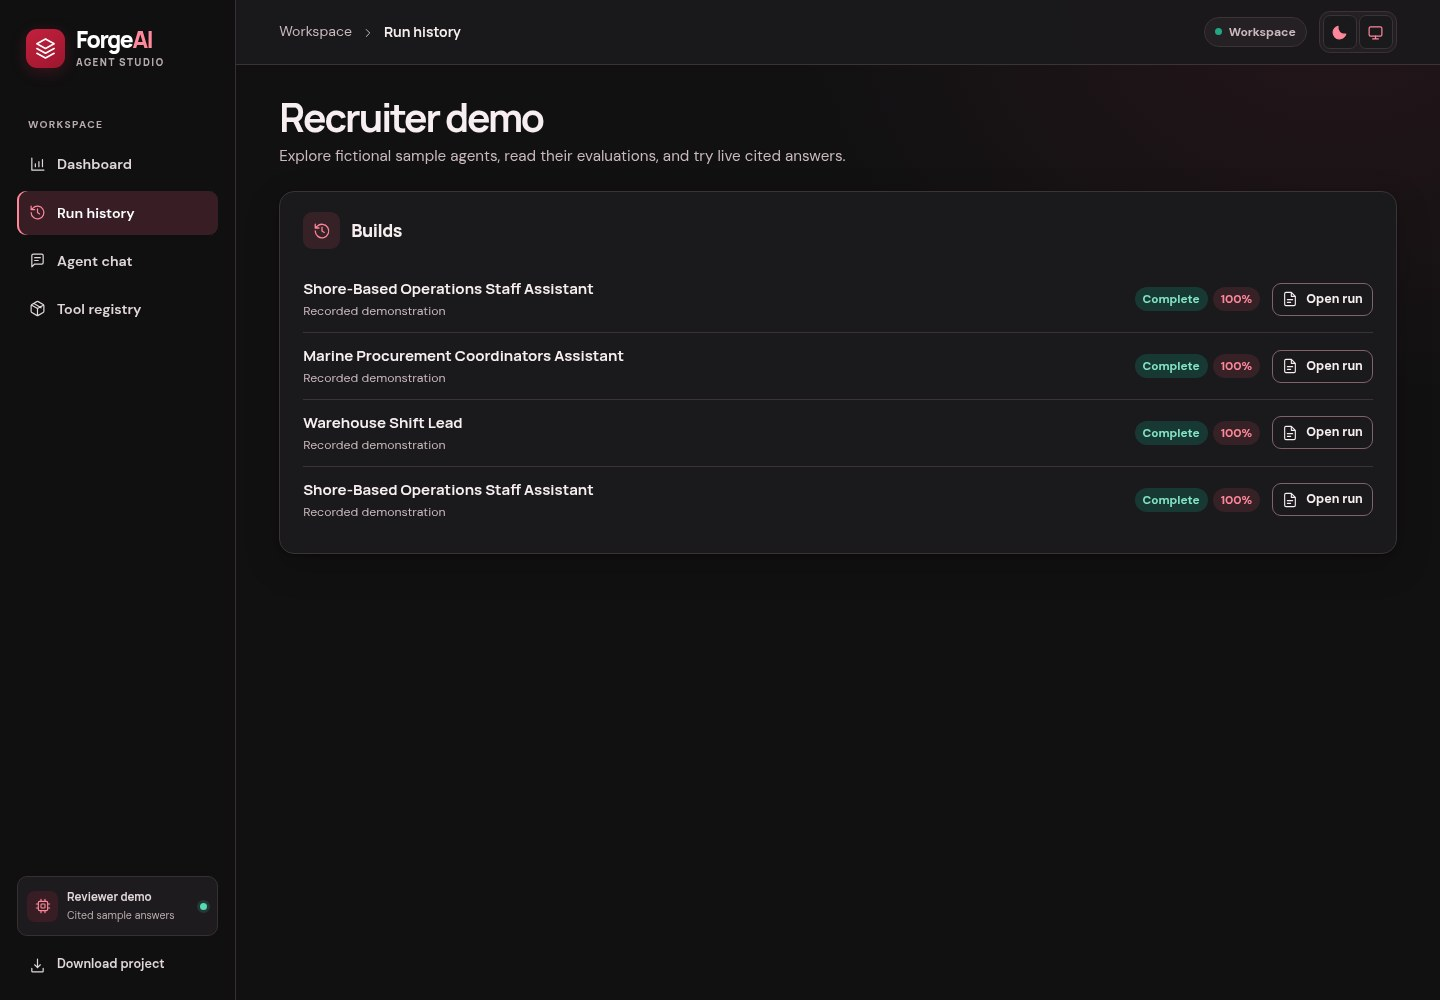
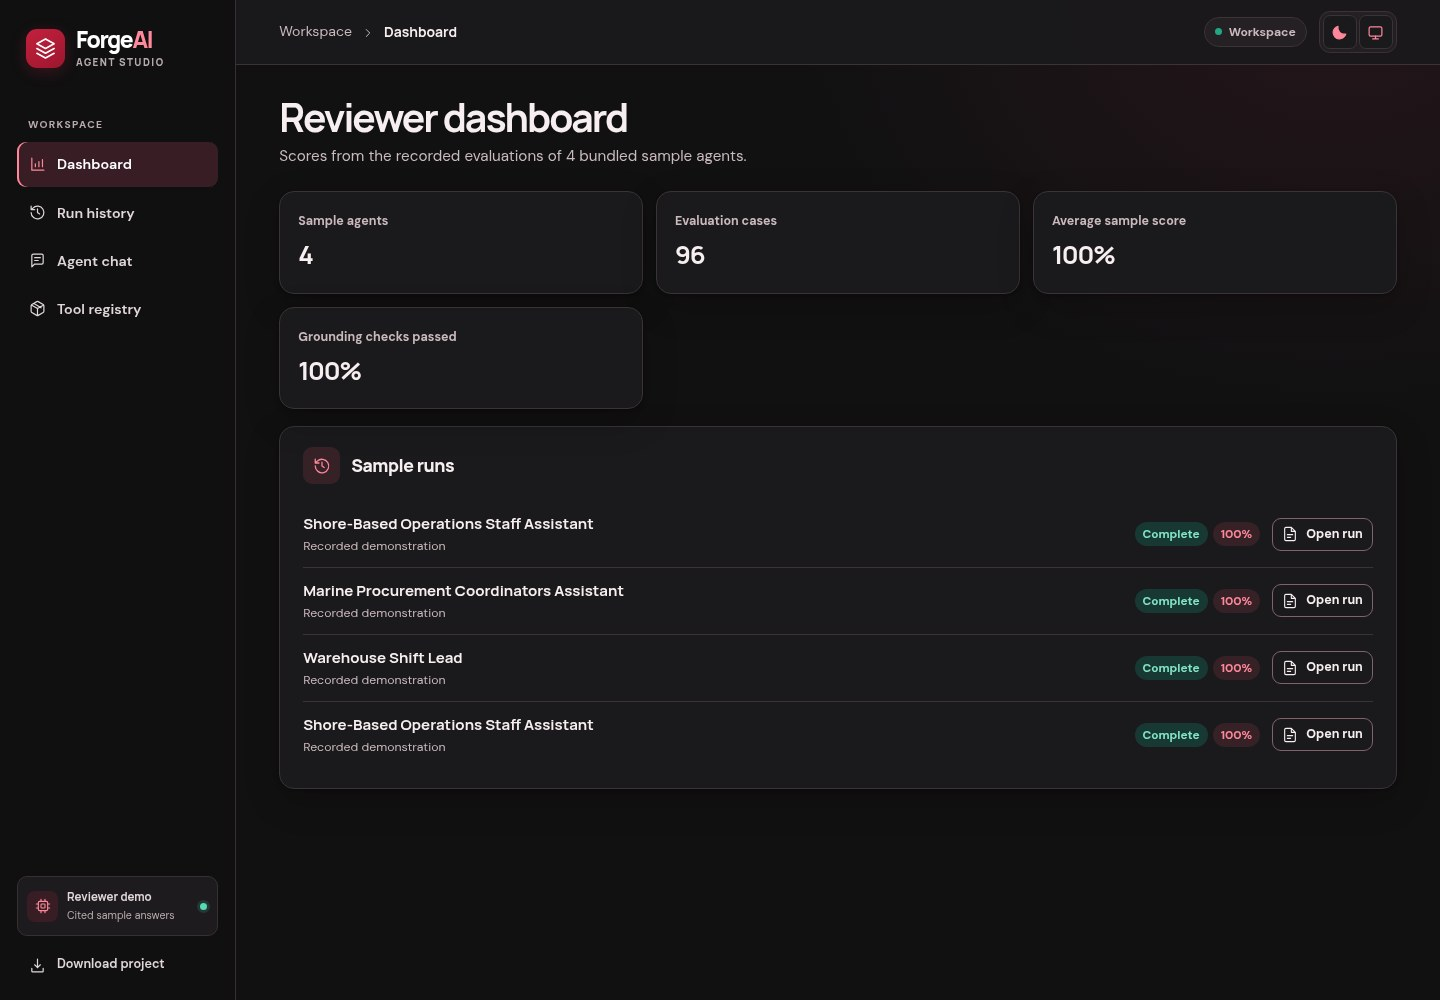
Open the reviewer dashboard with recorded sample metrics

diff --git a/static/enterprise.js b/static/enterprise.js
@@ -67,21 +67,31 @@ const engineering = (() => {
     const d = dashboardData;
     if (dashboardError) return `<section class="card sheet info bad" role="alert">${esc(dashboardError)}</section>`;
     if (!d) return '<div class="card sheet"><span class="spinner" aria-hidden="true"></span> Loading workspace metrics</div>';
+    const reviewer = state.session?.review_demo;
     const values = [
-      ["Generated agents", d.generated_agents], ["Evaluation cases", d.evaluation_cases],
-      ["Average score", d.average_score === null ? "—" : `${d.average_score}%`],
-      ["Grounded responses", d.grounding_rate === null ? "—" : `${Math.round(d.grounding_rate * 100)}%`],
+      [reviewer ? "Sample agents" : "Generated agents", d.generated_agents], ["Evaluation cases", d.evaluation_cases],
+      [reviewer ? "Average sample score" : "Average score", d.average_score === null ? "—" : `${d.average_score}%`],
+      [reviewer ? "Grounding checks passed" : "Grounded responses", d.grounding_rate === null ? "—" : `${Math.round(d.grounding_rate * 100)}%`],
+    ];
+    if (!reviewer) values.push(
       ["Security checks", d.security_checks], ["Regression failures", d.regression_failures],
       ["Pending approvals", d.pending_approvals], ["Pending feedback", d.pending_feedback],
-    ];
-    return `<div class="screen"><div class="page-heading"><div><h1>Workspace overview</h1>
-      <p>Metrics from your builds. ${d.recorded_samples} recorded samples are listed separately.</p></div>
+    );
+    const summary = reviewer
+      ? `Scores from the recorded evaluations of ${d.recorded_samples} bundled sample agents.`
+      : `Metrics from your builds. ${d.recorded_samples} recorded samples are listed separately.`;
+    const reports = reviewer
+      ? `<section class="card sheet">${section("history", "Sample runs")}
+        ${runHistoryRows(d.recent) || empty("Sample runs are unavailable.")}</section>`
+      : `<section class="card sheet">${section("history", "Recent builds")}
+        ${d.recent.length ? table(d.recent.map((row) => `<a href="#run/${esc(row.id)}">${esc(row.name)}</a> · ${esc(titleFor(row.status))}`)) : empty("Workspace builds will appear here.")}</section>
+        <section class="card sheet">${section("target", "Recent evaluation failures")}
+        ${d.recent_failures.length ? table(d.recent_failures.map((row) => `${esc(row.case)} · ${esc(row.failure)}`)) : empty("No failed evaluation cases in the recorded workspace builds.")}</section>`;
+    return `<div class="screen"><div class="page-heading"><div><h1>${reviewer ? "Reviewer dashboard" : "Workspace overview"}</h1>
+      <p>${esc(summary)}</p></div>
       ${canEdit() ? '<a class="btn primary" href="#build">New agent</a>' : ""}</div>
       <div class="panel-grid">${values.map(([label, value]) => `<div class="card metric"><small>${label}</small><strong>${esc(value)}</strong></div>`).join("")}</div>
-      <section class="card sheet">${section("history", "Recent builds")}
-      ${d.recent.length ? table(d.recent.map((row) => `<a href="#run/${esc(row.id)}">${esc(row.name)}</a> · ${esc(titleFor(row.status))}`)) : empty("Workspace builds will appear here.")}</section>
-      <section class="card sheet">${section("target", "Recent evaluation failures")}
-      ${d.recent_failures.length ? table(d.recent_failures.map((row) => `${esc(row.case)} · ${esc(row.failure)}`)) : empty("No failed evaluation cases in the recorded workspace builds.")}</section></div>`;
+      ${reports}</div>`;
   }
 
   async function loadDashboard() {

diff --git a/static/app.js b/static/app.js
@@ -213,8 +213,8 @@ function buildScreen() {
   </div>`;
 }
 
-function historyScreen() {
-  const rows = state.runs.map((item) => `<div class="history-row">
+function runHistoryRows(runs) {
+  return runs.map((item) => `<div class="history-row">
     <div><strong>${esc(item.name)}</strong><small>${item.demo ? "Recorded demonstration" : esc(new Date(item.created).toLocaleString(undefined, { dateStyle: "medium", timeStyle: "short" }))}</small></div>
     <div class="history-meta">
       ${badge(titleFor(item.status), item.status === "complete" ? "good" : item.status === "failed" ? "bad" : "warn")}
@@ -222,6 +222,10 @@ function historyScreen() {
     </div>
     <a class="btn small" href="#run/${esc(item.id)}">${icon("file")} Open run</a>
   </div>`).join("");
+}
+
+function historyScreen() {
+  const rows = runHistoryRows(state.runs);
   return `<div class="screen"><div class="page-heading"><div><h1>${state.session?.review_demo ? "Recruiter demo" : "Run history"}</h1><p>${state.session?.review_demo ? "Explore fictional sample agents, read their evaluations, and try live cited answers." : "Open a recorded build, inspect its evidence, or test its agent."}</p></div>
     ${isAdmin() ? `<a class="btn primary" href="#build">${icon("sparkles")} New build</a>` : ""}</div>
     <section class="card sheet">${section("history", "Builds")}${rows || `<div class="empty"><p>Build an agent to see its run here.</p></div>`}</section></div>`;
@@ -529,7 +533,7 @@ function route() {
   cancelPoll();
   const [view, id = ""] = window.location.hash.slice(1).split("/");
   const available = visibleNav().map(([key]) => key);
-  const fallback = state.session?.review_demo ? "history" : isAdmin() ? "build" : isStaff() ? "dashboard" : "chat";
+  const fallback = isAdmin() ? "build" : isStaff() ? "dashboard" : "chat";
   const permitted = available.includes(view) || (isStaff() && view === "run" && id);
   state.location = !state.session?.authenticated ? "login" : permitted ? view : fallback;
   if (state.location === "dashboard") engineering.loadDashboard();

diff --git a/forgeai/enterprise_api.py b/forgeai/enterprise_api.py
@@ -147,13 +147,15 @@ def operation_error(exc):
 @router.get("/dashboard")
 def dashboard(request: Request):
     runs = web.runs(request)
-    completed_runs = [row for row in runs if not row["demo"] and row["status"] == "complete"]
+    dashboard_runs = [row for row in runs if row["demo"] == web.REVIEW_DEMO]
+    completed_runs = [row for row in dashboard_runs if row["status"] == "complete"]
     details = [read_json(web.completed(row["id"])[0] / "run.json") for row in completed_runs]
     results = [case for result in details for case in result["results"]]
     security = [result["security"] for result in details if result.get("security")]
     pending = []
-    for row in completed_runs:
-        pending.extend(feedback.list_feedback(feature_folder(request, row["id"]), run_id=row["id"], state="pending"))
+    if not web.REVIEW_DEMO:
+        for row in completed_runs:
+            pending.extend(feedback.list_feedback(feature_folder(request, row["id"]), run_id=row["id"], state="pending"))
     return {
         "generated_agents": len(completed_runs), "recorded_samples": sum(row["demo"] for row in runs),
         "evaluation_cases": len(results),
@@ -162,7 +164,7 @@ def dashboard(request: Request):
         "security_checks": sum(row["total"] for row in security),
         "regression_failures": sum(len(r.get("regression", {}).get("changes", {}).get("lost", [])) for r in details),
         "pending_approvals": sum(r["status"] == "approval" for r in runs), "pending_feedback": len(pending),
-        "recent": [row for row in runs if not row["demo"]][:10],
+        "recent": dashboard_runs[:10],
         "recent_failures": [{"case": row["id"], "failure": row["failure"]} for row in results if not row["passed"]][:10],
     }
 

diff --git a/tests/test_access.py b/tests/test_access.py
@@ -46,6 +46,21 @@ class AccessTests(unittest.TestCase):
 
 
 class ReviewerDemoTests(unittest.TestCase):
+    def test_dashboard_uses_recorded_sample_evaluations(self):
+        with patch.object(web, "REVIEW_DEMO", True), TestClient(web.app) as client:
+            samples = client.get("/api/runs").json()
+            runs = [client.get(f"/api/runs/{sample['id']}").json()["result"] for sample in samples]
+            cases = [case for run in runs for case in run["results"]]
+            response = client.get("/api/dashboard")
+            self.assertEqual(response.status_code, 200)
+            dashboard = response.json()
+            self.assertEqual(dashboard["recent"], samples)
+            self.assertEqual(dashboard["generated_agents"], len(runs))
+            self.assertEqual(dashboard["evaluation_cases"], len(cases))
+            self.assertGreater(dashboard["evaluation_cases"], 0)
+            self.assertEqual(dashboard["average_score"], round(sum(run["scorecard"]["score"] for run in runs) / len(runs), 1))
+            self.assertEqual(dashboard["grounding_rate"], round(sum(case["checks"]["grounded"] for case in cases) / len(cases), 3))
+
     def test_public_sample_access_is_read_only_and_does_not_store_questions(self):
         with TemporaryDirectory() as folder, patch.object(web, "REVIEW_DEMO", True), patch.object(web, "RUNS", Path(folder)):
             with TestClient(web.app) as client:

diff --git a/README.md b/README.md
@@ -8,7 +8,7 @@ ForgeAI turns a short brief and a document collection into a runnable, tested qu
 
 ## Review the live app
 
-The Render link opens the public reviewer app without sign-in. Select **Open run** on any of the four samples to inspect its evaluation, then use **Open chat** to ask a question and expand its original citation. **Export agent** downloads the selected agent and its sources.
+The Render link opens the reviewer dashboard without sign-in. Its totals and scores come from the recorded evaluations of the four sample agents. Select **Open run** to inspect a sample, then use **Open chat** to ask a question and expand its original citation. **Export agent** downloads the selected agent and its sources. **Run history** lists the runs separately.
 
 For uploads, new builds, approvals and release management, run Studio locally or use an authenticated owner deployment. Model-assisted builds and broader translation coverage use configured model endpoints. Live weather requires a network-enabled workspace. [Deployment profiles](docs/deployment.md)
 
@@ -228,7 +228,7 @@ The suite covers the factory, citations, OCR, feedback, releases, downloads and 
 | --- | --- |
 | ![Studio build form in light mode](docs/screenshots/factory-light.jpg) | ![Tamil answer and English PDF evidence](docs/screenshots/reviewer-tamil-chat.jpg) |
 
-[Reviewer home](docs/screenshots/reviewer-home.jpg) · [Language evaluation](docs/screenshots/reviewer-language-evaluation.jpg) · [Blind evaluation](docs/screenshots/blind-results.jpg) · [Execution trace](docs/screenshots/execution-trace.jpg) · [Desktop dashboard](docs/screenshots/dashboard.jpg) · [Mobile dashboard](docs/screenshots/dashboard-mobile.jpg)
+[Reviewer dashboard](docs/screenshots/reviewer-home.jpg) · [Language evaluation](docs/screenshots/reviewer-language-evaluation.jpg) · [Blind evaluation](docs/screenshots/blind-results.jpg) · [Execution trace](docs/screenshots/execution-trace.jpg) · [Desktop dashboard](docs/screenshots/dashboard.jpg) · [Mobile dashboard](docs/screenshots/dashboard-mobile.jpg)
 
 ## Repository layout
 

diff --git a/docs/deployment.md b/docs/deployment.md
@@ -4,7 +4,7 @@
 
 The public reviewer profile serves the four bundled fictional runs, their evaluation reports, live cited chat and agent ZIPs. The owner profile adds authenticated uploads, agent builds, requirements review, feedback and release management. A single Docker service serves both its static frontend and FastAPI endpoints from the same origin.
 
-The reviewer service is deployed on Render's free plan. It opens without sign-in. The first request after inactivity can take longer while the service starts. [Live reviewer app](https://forgeai-reviewer.onrender.com/)
+The reviewer service is deployed on Render's free plan. It opens to a dashboard of recorded sample evaluations without sign-in. The first request after inactivity can take longer while the service starts. [Live reviewer app](https://forgeai-reviewer.onrender.com/)
 
 The **Reviewer demo** sidebar badge indicates cited sample answers are available. Render's reviewer deployment uses rule-based retrieval from the bundled sources. The owner view reports the optional model connection separately.
 

diff --git a/docs/verification.md b/docs/verification.md
@@ -27,7 +27,7 @@ The checks below document measured behavior for the application and its fictiona
 
 | Check | Result |
 | --- | --- |
-| Python regression and integration tests | 40 passed. Includes auth boundaries, grounded judging, OCR, feedback, releases and snapshot integrity. |
+| Python regression and integration tests | 41 passed. Includes reviewer metrics, auth boundaries, grounded judging, OCR, feedback, releases and snapshot integrity. |
 | Unseen corpus | A fresh aquarium document collection passed 24/24 development and 8/8 holdout cases. Qwen completed 14 calls. |
 | Multilingual reviewer replay | With NLLB and E5 configured, 19 cases passed across English, Hindi, Tamil, Romanized questions and script-English mixes. |
 | English PDF upload | Eight questions passed across two policies and four forms of input. Responses retained the same source PDF page. |
